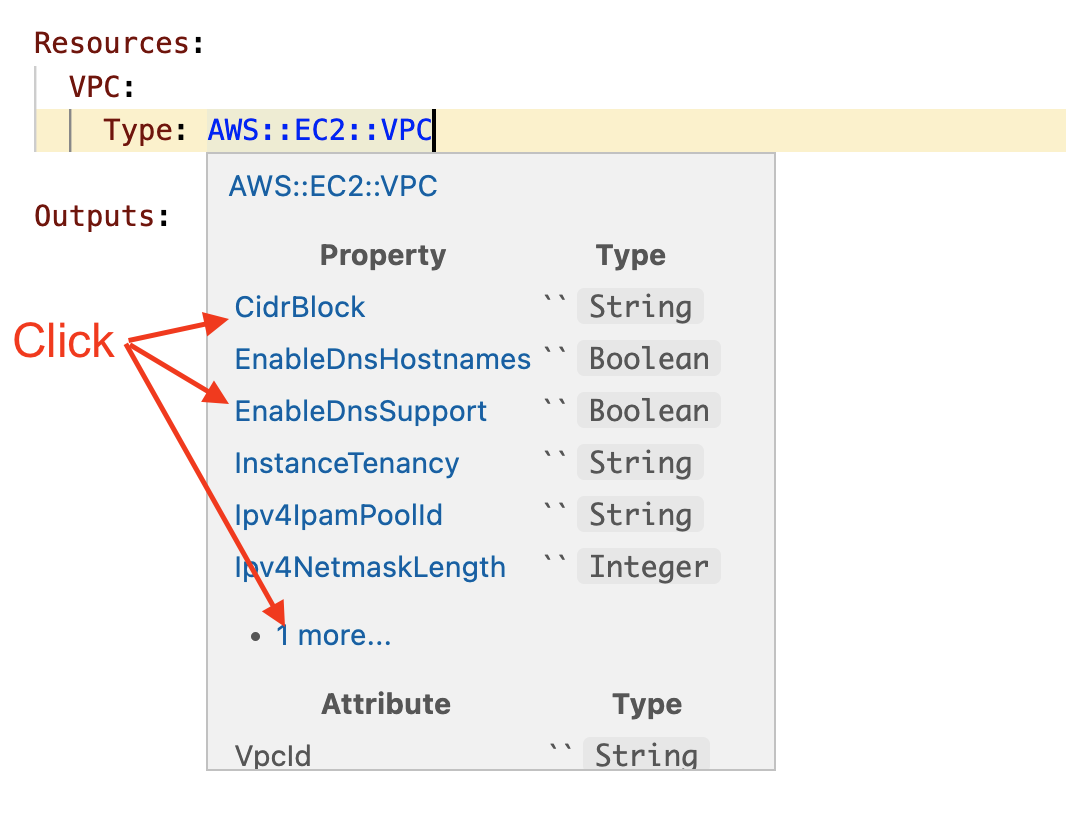
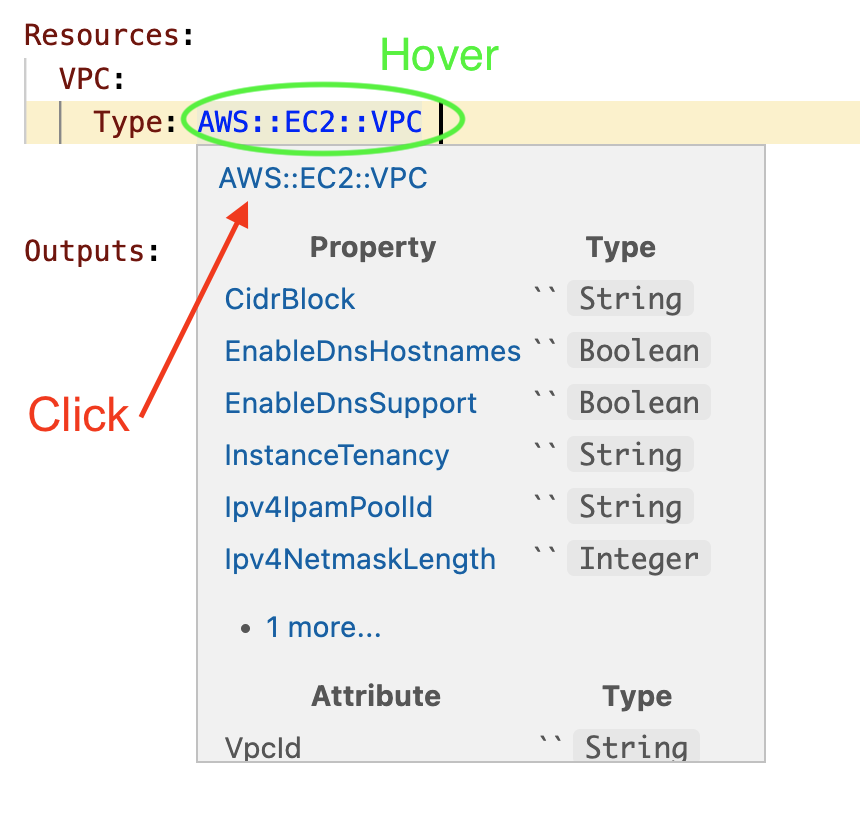
Change png

diff --git a/Module_8_Automation/CloudFormation/CloudFormation.md b/Module_8_Automation/CloudFormation/CloudFormation.md
@@ -73,4 +73,4 @@ Command Palette → Snippets: Configure User Snippets → yaml
 
 5. Hover over and click to get the AWS docs
 
-<img src="img/cfn-hover.png" alt="hover over" width="400"/>
+<img src="img/cfn-hover.png" alt="hover over" width="300"/>
